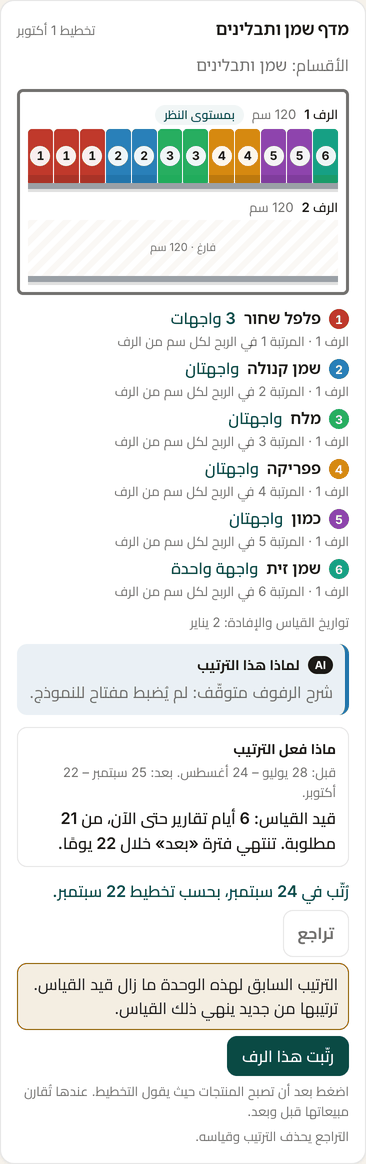
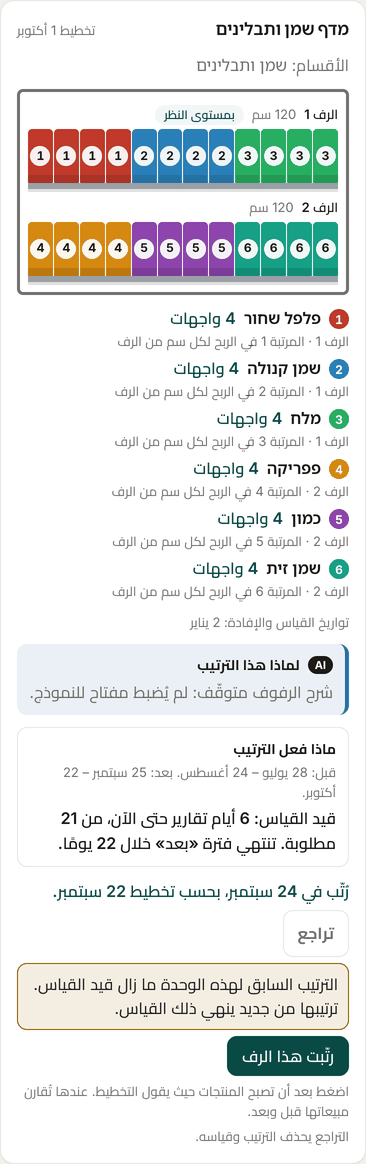
Phase 8 Task 8.8: the mockups with F12-S1 v0.9's packing, as proposed
Every Shelf plan screen redrawn from the engine on feat/f12-spread-shelves, which spreads first
facings over the shelves (OQ-1210, option A). No shelf in either test shop is empty now; the
measurement is unchanged (0.186). Still awaiting the repository owner.

diff --git a/docs/reviews/F12-screens-mockups.md b/docs/reviews/F12-screens-mockups.md
@@ -5,7 +5,7 @@ Status: Ready for review — awaiting the repository owner's approval
 Owner: smartshelf-engineer (Phase 8 Task 8.8)
 Parent: [Phase 8 plan](../implementation/phase-8-v4-planogram.md), Task 8.8
 Inputs: [docs/features/F12-planogram/specs/F12-S1-planogram.md (FR-190 … FR-215, AC-172, AC-173, AC-182, AC-189, AC-190, AC-204, NFR-074, C-75), ADR-029, ADR-037, ADR-038, ADR-039, D-30, D-31, D-32, public/examples/shelf-plan-example.json, tests/fixtures/shelf_signals/build.py]
-Updated: 2026-10-04
+Updated: 2026-10-05 (redrawn as a planogram on his request; packing per F12-S1 v0.9 as proposed)
 ---
 
 # F12 screens — mockups for approval
@@ -16,8 +16,10 @@ will build, and nothing else. Until he approves them, the F12 capabilities stay 
 
 **How they were made.** They were drawn inside the real app, in the e2e build, at phone size
 (390 × 844), so the header, fonts, colours and buttons are the app's own. The page code is on the
-branch `feat/phase-8-pages`, which is not merged. Every figure on them is the engine's. Three
-sources were used, and all three are test shops, not a store's data:
+branch `feat/phase-8-pages`, which is not merged. Every figure on them is the engine's, with the
+packing rule proposed in F12-S1 v0.9 (decision 2 below), from the unmerged branch
+`feat/f12-spread-shelves`. Three sources were used, and all three are test shops, not a store's
+data:
 
 - **Store layout and Shelf plan, filled:** the marked example (Task 8.7,
   `public/examples/shelf-plan-example.json`), which has three units. It is shown here as if it
@@ -58,8 +60,8 @@ claude.ai page used for F8 could not be published from this session.
    drawn that way: each unit from the front, its shelves stacked from the top, every facing a tile
    as wide as the product, and a numbered key under it. The drawing is the shelf itself, so it
    runs left to right in every language, with products in the plan's order from the left.
-2. **A fault the mockups found: the plan leaves shelves empty.** The approved packing rule
-   (F12-S1 FR-183, FR-185) puts every product's first facing on the eye-level shelf while it has
+2. **A fault the mockups found: the plan left shelves empty.** The approved packing rule
+   (F12-S1 v0.8 FR-183, FR-185) puts every product's first facing on the eye-level shelf while it has
    room. Extra facings then go only on the shelf that already holds that product. So a unit whose
    products fit at eye level leaves its other shelves **empty**:
    - the example's dry unit leaves its 60 cm bottom shelf empty;
@@ -78,8 +80,14 @@ claude.ai page used for F8 could not be published from this session.
      shelves.
 
    Either one changes the spec (FR-183 and FR-185), the engine and its tests. That comes back as
-   F12-S1 v0.9 for approval before the pages are built. The front view makes the fault plain: in
-   the measurement shop every unit is a full shelf over an empty one.
+   F12-S1 v0.9 for approval before the pages are built. The front view made the fault plain: in
+   the measurement shop every unit was a full shelf over an empty one.
+
+   **The screens below show A**, written into F12-S1 v0.9 (FR-183, AC-205, OQ-1210, Ready for
+   review) and built on `feat/f12-spread-shelves`. Every shelf in both test shops now holds
+   products. Where a product of unknown size stands on the unit (the fridge), there are no extra
+   facings to fill the shelves with, so A keeps the top earners at eye level, as before. B is not
+   drawn.
 3. **Product pictures on the tiles, from the store's own photos.** No product picture exists
    anywhere in the system today, and none may be invented (D-23). They can come from the photos the
    store already sends: when the team reads each product's width from a shelf photo (OQ-1201), it
